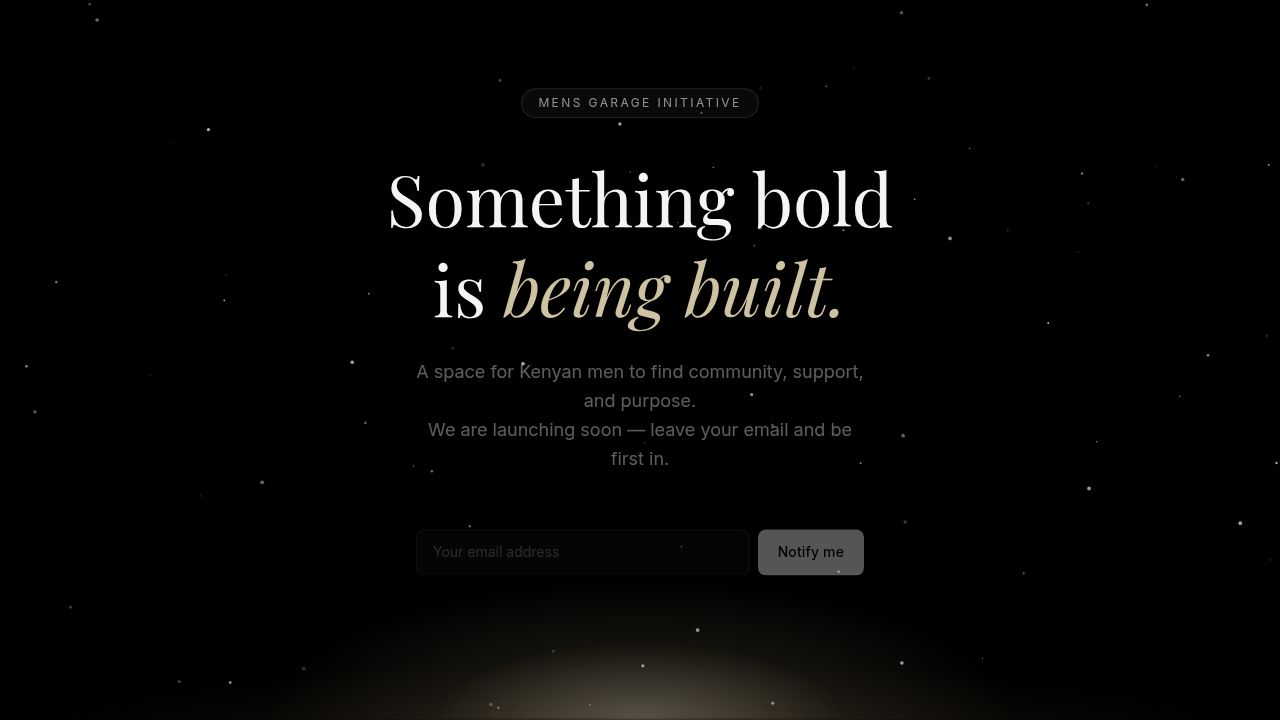
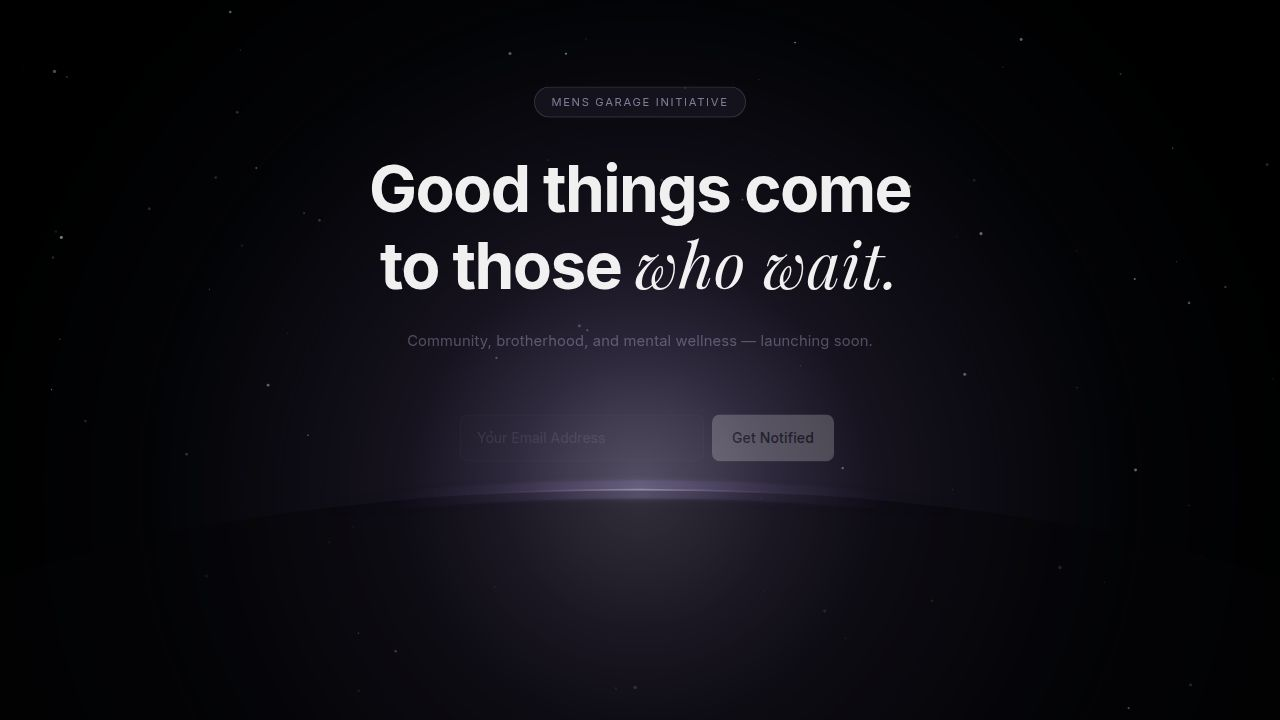
Make the radial glow and arc rim appear more natural
Adjust the positioning and gradient of radial glows to appear centered at the arc's peak, and concentrate the arc's rim gradient to be bright only at the center.

Replit-Commit-Author: Agent
Replit-Commit-Session-Id: 3afb6282-b53d-4dc2-b26e-236dc1919395
Replit-Commit-Checkpoint-Type: full_checkpoint
Replit-Commit-Event-Id: e7ee5fe5-1974-436e-8ba6-d3ffeb6ccc93
Replit-Commit-Screenshot-Url: https://storage.googleapis.com/screenshot-production-us-central1/2df837d1-c4ff-4a3c-b38c-6df640e42d5c/3afb6282-b53d-4dc2-b26e-236dc1919395/B3M70kH
Replit-Helium-Checkpoint-Created: true

Changed region(s): [[0.2812, 0.2139, 0.7188, 0.8861], [0.3438, 0.9167, 0.6562, 1.0], [0.4062, 0.1222, 0.5938, 0.1528]]

diff --git a/artifacts/coming-soon/src/pages/ComingSoon.tsx b/artifacts/coming-soon/src/pages/ComingSoon.tsx
@@ -176,32 +176,38 @@ export default function ComingSoon() {
       {/* Particles */}
       <canvas ref={canvasRef} className="absolute inset-0 pointer-events-none" style={{ zIndex: 0 }} />
 
-      {/* ── Glow column: rises from arc, lights the headline ── */}
+      {/* ── Radial glow — centered exactly at the arc peak, radiates outward like a sun behind the horizon ── */}
       <motion.div
         variants={glowVariants} initial="hidden" animate="visible"
         className="absolute inset-0 pointer-events-none"
         style={{ zIndex: 2 }}
       >
-        {/* Wide atmospheric purple bloom — full height */}
+        {/* Large outer bloom — wide atmospheric halo from the arc peak */}
         <div style={{
-          position: "absolute", left: "50%", transform: "translateX(-50%)",
-          bottom: 0, width: "110vw", height: "100vh",
-          background: "radial-gradient(ellipse 55% 72% at 50% 100%, rgba(115,98,138,0.62) 0%, rgba(49,61,90,0.28) 40%, transparent 68%)",
-          filter: "blur(16px)",
+          position: "absolute",
+          left: "50%", top: "68%",
+          transform: "translate(-50%, -50%)",
+          width: "120vw", height: "120vw",
+          background: "radial-gradient(circle, rgba(90,72,120,0.55) 0%, rgba(49,61,90,0.20) 38%, transparent 65%)",
+          filter: "blur(28px)",
         }} />
-        {/* Tighter column reaching headline */}
+        {/* Mid glow — tighter, more purple */}
         <div style={{
-          position: "absolute", left: "50%", transform: "translateX(-50%)",
-          bottom: 0, width: "75vw", height: "88vh",
-          background: "radial-gradient(ellipse 45% 68% at 50% 100%, rgba(150,138,192,0.55) 0%, rgba(115,98,138,0.22) 43%, transparent 68%)",
-          filter: "blur(8px)",
+          position: "absolute",
+          left: "50%", top: "68%",
+          transform: "translate(-50%, -50%)",
+          width: "80vw", height: "80vw",
+          background: "radial-gradient(circle, rgba(130,110,170,0.50) 0%, rgba(90,72,120,0.18) 42%, transparent 68%)",
+          filter: "blur(12px)",
         }} />
-        {/* Bright core — concentrated near horizon */}
+        {/* Bright inner core — tight hot spot right at the peak */}
         <div style={{
-          position: "absolute", left: "50%", transform: "translateX(-50%)",
-          bottom: "20%", width: "40vw", height: "55vh",
-          background: "radial-gradient(ellipse 40% 62% at 50% 100%, rgba(203,197,234,0.68) 0%, rgba(150,138,192,0.25) 44%, transparent 68%)",
-          filter: "blur(3px)",
+          position: "absolute",
+          left: "50%", top: "68%",
+          transform: "translate(-50%, -50%)",
+          width: "38vw", height: "38vw",
+          background: "radial-gradient(circle, rgba(210,200,240,0.72) 0%, rgba(160,148,200,0.28) 40%, transparent 68%)",
+          filter: "blur(4px)",
         }} />
       </motion.div>
 
@@ -222,22 +228,26 @@ export default function ComingSoon() {
               <feMerge><feMergeNode in="b1" /><feMergeNode in="b2" /><feMergeNode in="SourceGraphic" /></feMerge>
             </filter>
 
-            {/* Rim gradient — bright ONLY at centre top, fades to invisible on sides */}
+            {/* Rim gradient — bright ONLY at the very centre, pure black on the sides */}
             <linearGradient id="rim-grad" x1="0%" y1="0%" x2="100%" y2="0%">
-              <stop offset="0%"   stopColor="rgba(180,168,220,0)" />
-              <stop offset="28%"  stopColor="rgba(180,168,220,0.25)" />
-              <stop offset="50%"  stopColor="rgba(228,224,248,0.95)" />
-              <stop offset="72%"  stopColor="rgba(180,168,220,0.25)" />
-              <stop offset="100%" stopColor="rgba(180,168,220,0)" />
+              <stop offset="0%"   stopColor="rgba(0,0,0,0)" />
+              <stop offset="38%"  stopColor="rgba(0,0,0,0)" />
+              <stop offset="46%"  stopColor="rgba(200,192,235,0.45)" />
+              <stop offset="50%"  stopColor="rgba(232,228,252,0.96)" />
+              <stop offset="54%"  stopColor="rgba(200,192,235,0.45)" />
+              <stop offset="62%"  stopColor="rgba(0,0,0,0)" />
+              <stop offset="100%" stopColor="rgba(0,0,0,0)" />
             </linearGradient>
 
-            {/* Same gradient but wider for the outer glow stroke */}
+            {/* Wider soft glow halo — still only centre, fades very fast to black */}
             <linearGradient id="rim-grad-wide" x1="0%" y1="0%" x2="100%" y2="0%">
-              <stop offset="0%"   stopColor="rgba(115,98,138,0)" />
-              <stop offset="30%"  stopColor="rgba(115,98,138,0.18)" />
-              <stop offset="50%"  stopColor="rgba(160,148,200,0.55)" />
-              <stop offset="70%"  stopColor="rgba(115,98,138,0.18)" />
-              <stop offset="100%" stopColor="rgba(115,98,138,0)" />
+              <stop offset="0%"   stopColor="rgba(0,0,0,0)" />
+              <stop offset="32%"  stopColor="rgba(0,0,0,0)" />
+              <stop offset="44%"  stopColor="rgba(130,110,180,0.22)" />
+              <stop offset="50%"  stopColor="rgba(160,148,210,0.58)" />
+              <stop offset="56%"  stopColor="rgba(130,110,180,0.22)" />
+              <stop offset="68%"  stopColor="rgba(0,0,0,0)" />
+              <stop offset="100%" stopColor="rgba(0,0,0,0)" />
             </linearGradient>
 
             {/* Clip to viewport — hide the ellipse below the fold */}